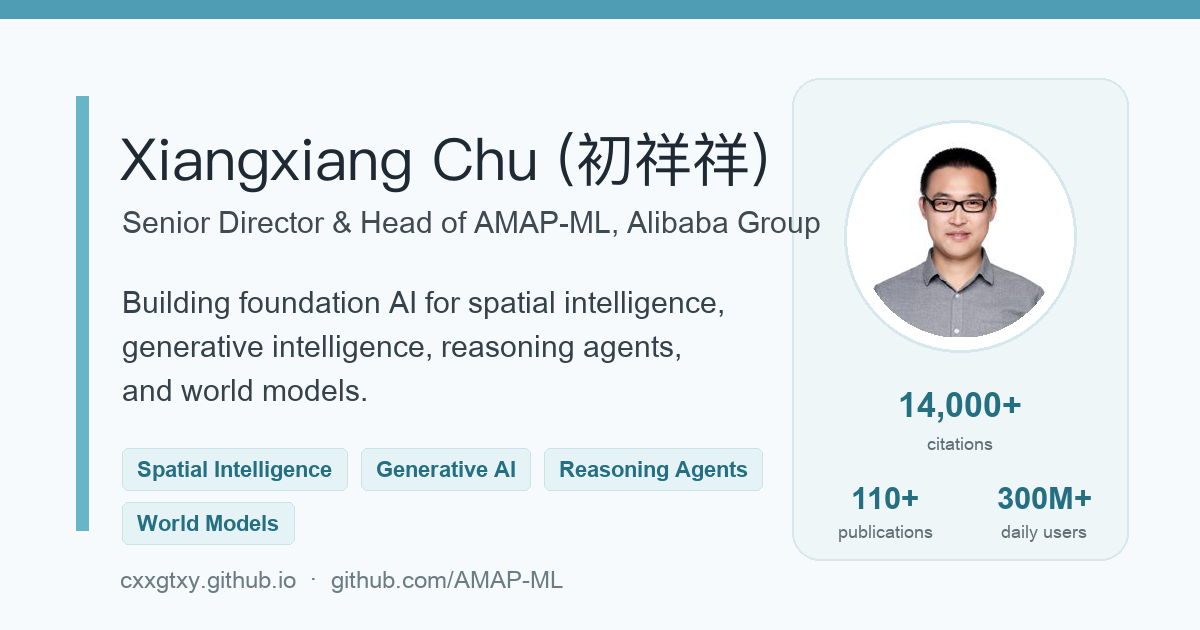
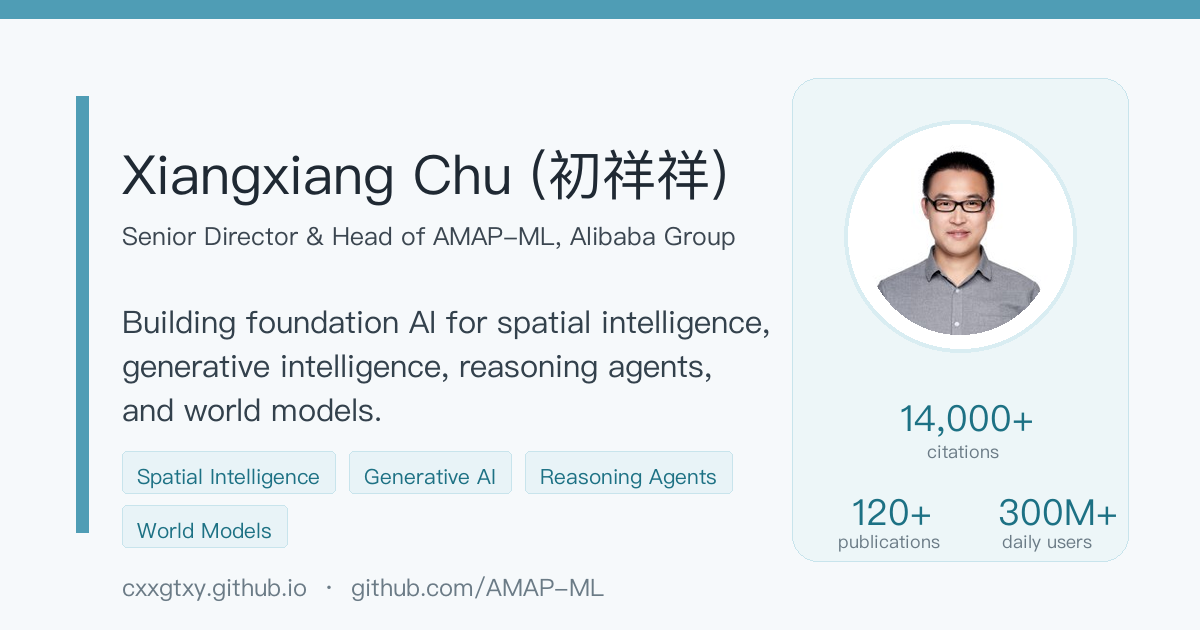
Refresh homepage updates and sharing card

diff --git a/_pages/about.md b/_pages/about.md
@@ -46,7 +46,7 @@ I build foundation AI systems that move from original research to reproducible o
   </div>
 </div>
 
-<p class="profile-proof">Updated May 2026 · Citation metrics from <a href="https://scholar.google.com/citations?user=jn21pUsAAAAJ&hl=zh-CN">Google Scholar</a>.</p>
+<p class="profile-proof">Updated June 2026 · Citation metrics from <a href="https://scholar.google.com/citations?user=jn21pUsAAAAJ&hl=zh-CN">Google Scholar</a>.</p>
 
 ---
 
@@ -67,8 +67,8 @@ Recent Updates
     <span class="update-item__text"><a href="https://github.com/AMAP-ML/DreamX-World">DreamX-World</a> released the 5B-Cam model and inference code for interactive world simulation.</span>
   </div>
   <div class="update-item">
-    <span class="update-item__date">2026.04.10</span>
-    <span class="update-item__text"><a href="https://github.com/AMAP-ML/SkillClaw">SkillClaw</a> released an agentic evolver that turns real interaction traces into reusable skill libraries.</span>
+    <span class="update-item__date">2026.05.01</span>
+    <span class="update-item__text">AMAP-ML added four ICML 2026 papers across unified multimodal generation, data-efficient RL, long-video generation, and preference optimization.</span>
   </div>
 </div>
 
@@ -97,11 +97,11 @@ Featured Projects
     <div class="project-card__links"><a href="https://github.com/AMAP-ML/DreamX-World">code</a><a href="https://github.com/AMAP-ML">AMAP-ML</a></div>
   </div>
   <div class="project-card">
-    <span class="project-card__tag project-card__tag--gen">Generation</span>
-    <div class="project-card__title"><a href="https://arxiv.org/abs/2503.06132">USP</a></div>
-    <div class="project-card__desc">Unified self-supervised pretraining that bridges image generation and understanding within a single framework.</div>
-    <div class="project-card__meta">ICCV 2025 · First Author · <a href="https://github.com/AMAP-ML/USP"><img src="https://img.shields.io/github/stars/AMAP-ML/USP?style=social" alt="GitHub stars"></a></div>
-    <div class="project-card__links"><a href="https://arxiv.org/abs/2503.06132">paper</a><a href="https://github.com/AMAP-ML/USP">code</a></div>
+    <span class="project-card__tag project-card__tag--detection">Spatial AI</span>
+    <div class="project-card__title"><a href="https://arxiv.org/abs/2602.22638">MobilityBench</a></div>
+    <div class="project-card__desc">A scalable benchmark for evaluating route-planning agents in real-world mobility scenarios, connecting agent research with AMAP's spatial intelligence anchor.</div>
+    <div class="project-card__meta">KDD 2026 · AMAP-ML · <a href="https://github.com/AMAP-ML/MobilityBench"><img src="https://img.shields.io/github/stars/AMAP-ML/MobilityBench?style=social" alt="GitHub stars"></a></div>
+    <div class="project-card__links"><a href="https://arxiv.org/abs/2602.22638">paper</a><a href="https://github.com/AMAP-ML/MobilityBench">code</a></div>
   </div>
   <div class="project-card">
     <span class="project-card__tag project-card__tag--llm">Agent</span>

diff --git a/_pages/news.md b/_pages/news.md
@@ -36,6 +36,10 @@ These items are curated from recent AMAP-ML releases and paper/project updates, 
 - **2026.05.12** — [CoEvolve](https://github.com/AMAP-ML/CoEvolve) accepted to **ACL 2026**, training LLM agents through agent-data mutual evolution.
 - **2026.05.12** — [Thinking-with-Map](https://github.com/AMAP-ML/Thinking-with-Map) accepted to **ACL 2026 Findings**, strengthening geolocalization with map-augmented reasoning.
 - **2026.05.11** — [DreamX-World](https://github.com/AMAP-ML/DreamX-World) released the **5B-Cam model and inference code** for interactive world simulation.
+- **2026.05.01** — **UniMRG** accepted to **ICML 2026**, showing that multi-representation generation strengthens unified multimodal understanding.
+- **2026.05.01** — **Train-Free Infinite-Frame Generation** accepted to **ICML 2026**, extending pretrained video diffusion to arbitrarily long, temporally consistent videos without retraining.
+- **2026.05.01** — **D-Evo** accepted to **ICML 2026**, improving data efficiency in reinforcement learning through dual difficulty-aware self-evolution.
+- **2026.05.01** — **EEPO** accepted to **ICML 2026**, introducing embedding-perturbed exploration for preference optimization in flow models.
 - **2026.04.22** — [DCW](https://github.com/AMAP-ML/DCW) accepted to **CVPR 2026**, mitigating SNR-t bias in diffusion probabilistic models.
 - **2026.04.10** — [SkillClaw](https://github.com/AMAP-ML/SkillClaw) released an agentic evolver that turns real interaction traces into reusable skill libraries.
 - **2026.04.01** — [MACE-Dance](https://github.com/AMAP-ML/MACE-Dance) accepted to **SIGGRAPH 2026**, decoupling motion generation and appearance synthesis for music-driven dance video.
